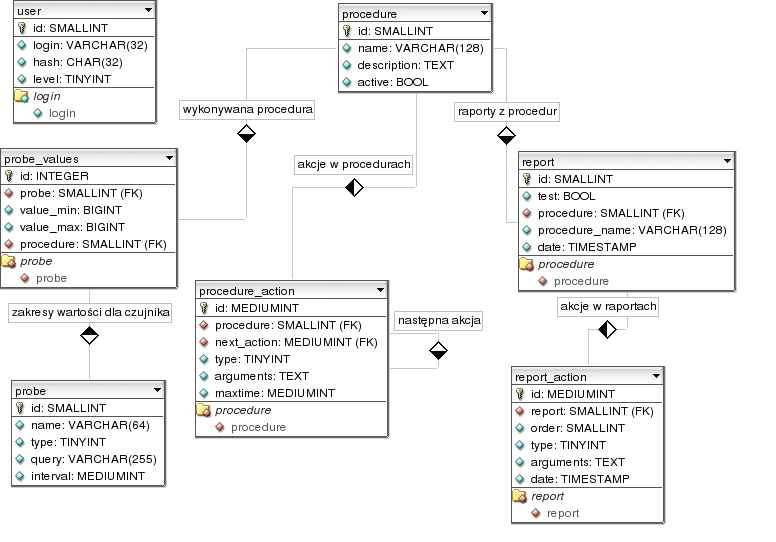
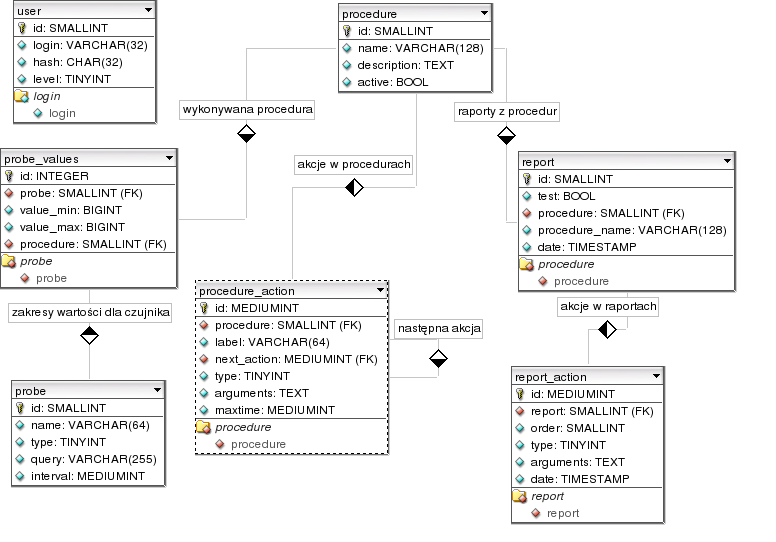
nowy dokument wizji

Changed region(s): [[0.2474, 0.5609, 0.6186, 0.8561], [0.4948, 0.679, 0.5567, 0.7085]]

diff --git a/docs/dokument-wizji.tex b/docs/dokument-wizji.tex
@@ -3,14 +3,16 @@
 \usepackage[MeX]{polski}
 \usepackage[utf8]{inputenc}
 %\usepackage{amsmath,amsthm,amssymb}
-%\usepackage{graphicx}
+\usepackage{graphicx}
+%\usepackage[pdftex]{graphicx}
+
 
 \pagestyle{fancy}
-\lhead{IT Service Continuity Management}
+\lhead{Disaster manager}
 \rhead{Dokument Wizji}
 
 \author{Paweł Kimel, Tomasz Wasilczyk}
-\title{IT Service Continuity Management}
+\title{Disaster manager}
 
 \setlength{\headheight}{14.5pt}
 
@@ -25,9 +27,9 @@
 	\begin{titlepage}
 	\begin{center}
 	
-	\textsc{Information Technology Infrastructure Library\\Service Delivery}\\[6cm]
+	\textsc{Information Technology Infrastructure Library\\Service Delivery\\IT Service Continuity Management}\\[6cm]
 	Paweł Kimel, Tomasz Wasilczyk\\[1cm]
-	\textsc{\Large IT Service Continuity Management}\\[0.25cm]
+	\textsc{\Large Disaster manager}\\[0.25cm]
 	\textsc{\large Dokument Wizji}\\[8.675cm]
 	
 	\end{center}
@@ -76,6 +78,8 @@
 Aplikacja umożliwia zarządzanie bazą procedur awaryjnych (tworzenie, modyfikacja), wspomaga testowanie
 i użycie ich w sytuacji kryzysowej. Ma także możliwość monitorowania, czy doszło do sytuacji kryzysowej,
 co skraca czas wykrycia problemu i uruchomienia procedur.
+
+Strona projektu (wraz z kodem źródłowym) znajduje się pod adresem: \textbf{disaster-manager.googlecode.com}.
 
 %%%%%%%%%%%%%%%%%%%%%%%%%%%%%%%%%%%%%%%%%%%%%%%%%%%%%%%%%%%%%%%%%%%%%%%%%%%
 
@@ -210,6 +214,57 @@ Operator aplikacji powinien być członkiem działu IT.
 	\item określa przedziały wartości przy których nastąpi reakcja systemu i odpowiadające im procedury,
 
 	\item zatwierdza wybór.
+\end{itemize}
+
+%%%%%%%%%%%%%%%%%%%%%%%%%%%%%%%%%%%%%%%%%%%%%%%%%%%%%%%%%%%%%%%%%%%%%%%%%%%
+
+\section{Schemat bazy danych}
+
+\begin{center}
+	\includegraphics[width=135mm]{db-schema.png}
+\end{center}
+
+%%%%%%%%%%%%%%%%%%%%%%%%%%%%%%%%%%%%%%%%%%%%%%%%%%%%%%%%%%%%%%%%%%%%%%%%%%%
+
+\section{Widoki}
+
+\subsection{Edycja procedur}
+
+\begin{center}
+	\includegraphics[width=135mm]{widoki/procedury.jpg}
+\end{center}
+
+%%%%%%%%%%%%%%%%%%%%%%%%%%%%%%%%%%%%%%%%%%%%%%%%%%%%%%%%%%%%%%%%%%%%%%%%%%%
+
+\section{Terminarz}
+
+\subsection{Iteracja pierwsza}
+
+\begin{itemize}
+	\item Przygotowanie frameworka servletu,
+	\item opracowanie procedur obsługi zapytań (wybierania odpowiedniego kontrolera i akcji),
+	\item implementacja klasy obsługi bazy danych,
+	\item implementacja silnika szablonów odpowiedzi,
+	\item kontroler obsługi stron błędów.
+\end{itemize}
+
+
+\subsection{Iteracja druga}
+
+\begin{itemize}
+	\item System logowania,
+	\item panel zarządzania użytkownikami,
+	\item panel dodawania i edycji procedur,
+	\item moduł testowania procedur.
+\end{itemize}
+
+
+\subsection{Iteracja trzecia}
+
+\begin{itemize}
+	\item Obsługa kanałów komunikacji z użytkownikami,
+	\item implementacja czujników programowych,
+	\item projekt, budowa prototypu i oprogramowanie czujnika sprzętowego,
 \end{itemize}
 
 %%%%%%%%%%%%%%%%%%%%%%%%%%%%%%%%%%%%%%%%%%%%%%%%%%%%%%%%%%%%%%%%%%%%%%%%%%%
